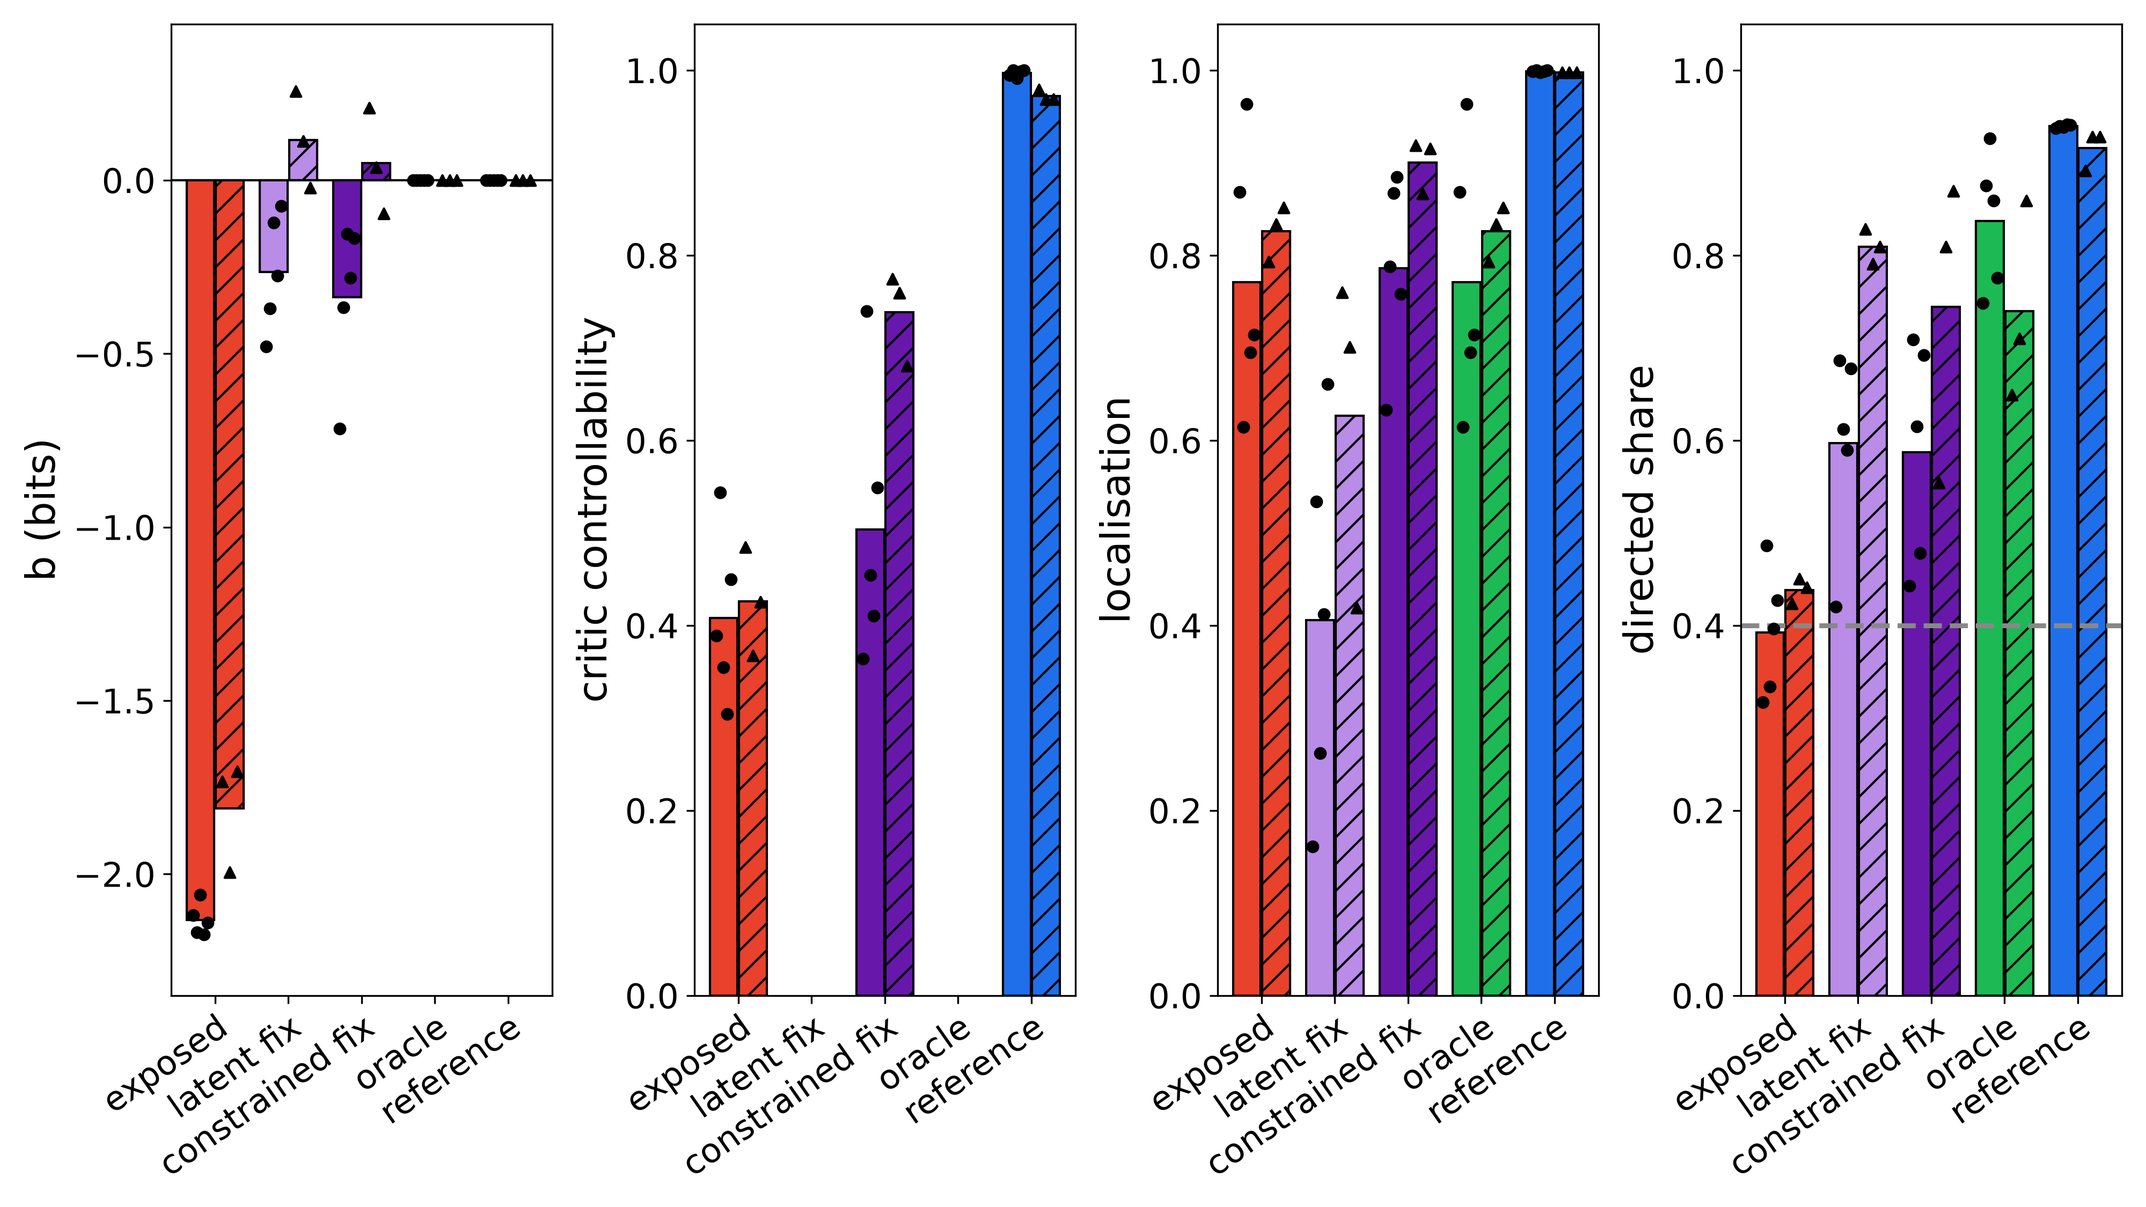
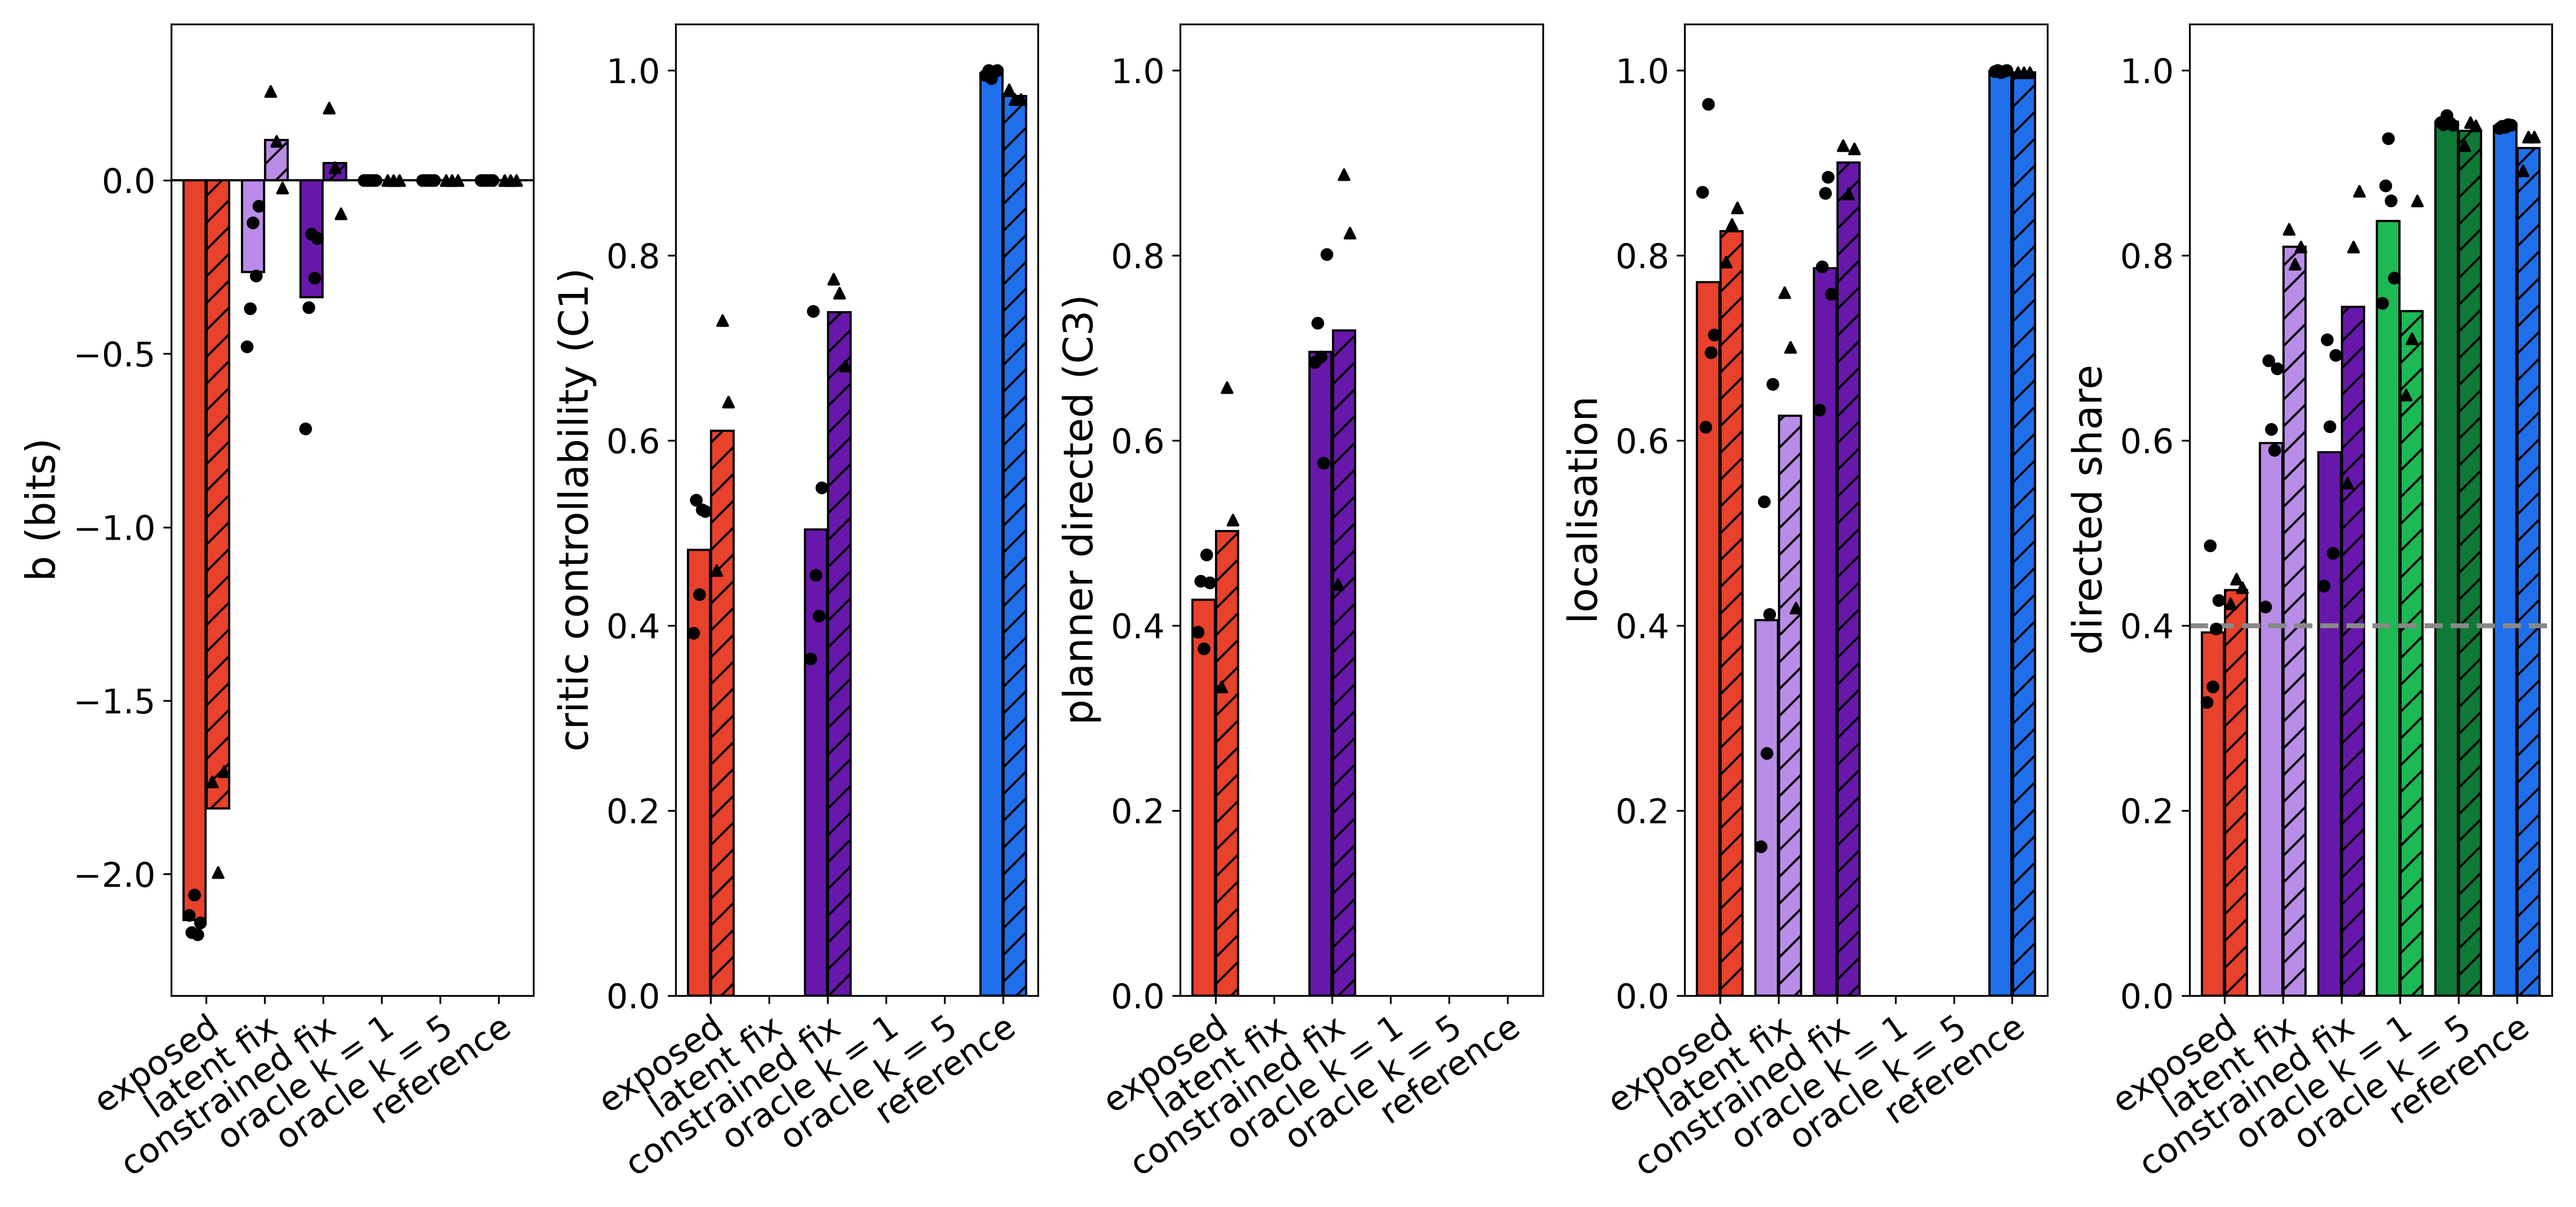
E7 tous agents à 650 000 : vérification de la correction latente chez les shuffle ; E7_bars_650k corrigée (oracle k = 1 et k = 5, C1 et C3 appariés, localisation de l'oracle retirée) ; § 21 : « mesure trompée » porte sur le critic seul, tableau par agent avec C3 (correction partielle par la prédicti

diff --git a/slides/figures_v3/E7_bars_650k.py b/slides/figures_v3/E7_bars_650k.py
@@ -1,11 +1,14 @@
 """Slides v3: E7_bars_650k -- E7_bars_critic on the campaign on all agents (shuffle at 650,000; docs/e6/DECISIONS.md (63),
-report section 21): b at step 1, the critic's controllability C1 (D7, main z_bar = draw), localisation in the zone and
-directed share (episodes, k = 1), training image, for exposed, latent fix (unconstrained stepwise, alpha = 1),
-constrained fix (each agent's (48) setting), oracle (true transitions in the planner, k = 1) and reference. Two bars per
-condition: the five baselines (E4's four pairs and baseline B, 300,000) and the three shuffle agents (A, E, F, 650,000),
-each the mean of its agents; black dots = the agents (circles: baselines, triangles: shuffle). As in v2 / v3: the
-oracle's b is the reference's (the true belief, not a measurement), its localisation the exposed model's (h is not
-modified); no C1 for the latent fix and the oracle (not measured). Grey dashed: chance (2/5) on the directed share.
+report section 21): b at step 1, the critic's controllability C1 and the planner's C3 (D7, main z_bar = draw),
+localisation in the zone and directed share, training image, for exposed, latent fix (unconstrained stepwise,
+alpha = 1), constrained fix (each agent's (48) setting), oracle (true transitions in the planner, k = 1 and k = 5) and
+reference. Two bars per condition: the five baselines (E4's four pairs and baseline B, 300,000) and the three shuffle
+agents (A, E, F, 650,000), each the mean of its agents; black dots = the agents (circles: baselines, triangles: shuffle).
+C1 and C3 are PAIRED: exposed = C_raw and constrained fix = C_corr, D7's measures without and with the correction on the
+same steps (the constrained episodes' localised zone steps, d7_correction.csv); the reference's C1 is its natural
+episodes' (pairs.csv); no C1 / C3 for the latent fix, the oracle, nor the reference's C3 (not measured). The oracle's b
+is the reference's (the true belief, not a measurement); its localisation is not measured (h is not modified, the
+lookahead runs measure no zone localisation) and not drawn. Grey dashed: chance (2/5) on the directed share.
 
 Reads the campaign's finished runs (scratch/all/<job>/, status "done" only) and its analysis
 (results/E6_phenotypes_latent/all_agents_650k/: pairs.csv for C1, forms.json for each agent's constrained setting,
@@ -27,12 +30,12 @@ REPO = Path(__file__).resolve().parents[2]
 OUT = REPO / "slides" / "out_v3"
 ALL = REPO / "scratch" / "all"
 AN = REPO / "results" / "E6_phenotypes_latent" / "all_agents_650k"
-EXPOSED, REFERENCE, ORACLE, CONSTR, FREE = "#E8412C", "#1F6FEB", "#1DB954", "#6718AB", "#B98CE8"
+EXPOSED, REFERENCE, ORACLE, ORACLE5, CONSTR, FREE = "#E8412C", "#1F6FEB", "#1DB954", "#0E7A35", "#6718AB", "#B98CE8"
 BASELINES = ["p1-a_e4", "base_A", "p2-a_e4", "p2-b_e4", "base_B"]
 SHUFFLE = ["f1_A", "f1_E", "f1_F"]
 AGENTS = BASELINES + SHUFFLE
-CONDS = ["exposed", "unconstrained", "constrained", "oracle", "reference"]
-MEASURES = ("b", "C1", "loc", "dir")
+CONDS = ["exposed", "unconstrained", "constrained", "oracle1", "oracle5", "reference"]
+MEASURES = ("b", "C1", "C3", "loc", "dir")
 NAN = float("nan")
 
 plt.style.use("default")
@@ -66,12 +69,13 @@ def collect() -> dict:
     v = {c: {m: {a: NAN for a in AGENTS} for m in MEASURES} for c in CONDS}
     forms = json.loads((AN / "forms.json").read_text(encoding="utf-8"))
     c1_pairs = {(r["agent"], r["role"]): num(r["C1"]) for r in rd(AN / "pairs.csv") if r["image"] == "training"}
-    c1_corr = {(r["agent"], r["setting"]): num(r["C1_corr"]) for r in rd(AN / "d7" / "d7_correction.csv") if r["zbar"] == "draw"}
+    d7 = {(r["agent"], r["setting"]): r for r in rd(AN / "d7" / "d7_correction.csv") if r["zbar"] == "draw"}
     for a in AGENTS:
         for r in json.loads((run_dir(f"e6_{a}_training") / "rows.json").read_text(encoding="utf-8")):
             c = r["role"]
             v[c]["b"][a], v[c]["loc"][a], v[c]["dir"][a] = r["b_step1"], r["loc_template_zone"], r["directed_share"]
-            v[c]["C1"][a] = c1_pairs[(a, c)]
+            if c == "reference":
+                v[c]["C1"][a] = c1_pairs[(a, c)]
         free = [r for r in json.loads((run_dir(f"free_{a}") / "rows.json").read_text(encoding="utf-8"))
                 if r["image"] == "training" and r["mode"] == "stepwise" and float(r["alpha"]) == 1.0]
         assert len(free) == 1, (a, len(free))
@@ -80,12 +84,15 @@ def collect() -> dict:
         con = json.loads((run_dir(f"cor_{a}") / "summary.json").read_text(encoding="utf-8"))["rows"][0]
         assert con["setting"] == forms["5"][a]["setting"], (a, con["setting"])
         v["constrained"]["b"][a], v["constrained"]["loc"][a] = con["b_step1"], con["loc_template_zone"]
-        v["constrained"]["dir"][a], v["constrained"]["C1"][a] = con["directed_share"], c1_corr[(a, con["setting"])]
-        ora = [r for r in json.loads((run_dir(f"oracle_{a}") / "summary.json").read_text(encoding="utf-8"))["rows"]
-               if r["model"] == "exposed" and r["k"] == 1]
-        assert len(ora) == 1, (a, len(ora))
-        v["oracle"]["dir"][a] = ora[0]["directed_share"]
-        v["oracle"]["b"][a], v["oracle"]["loc"][a] = v["reference"]["b"][a], v["exposed"]["loc"][a]
+        v["constrained"]["dir"][a] = con["directed_share"]
+        pair = d7[(a, con["setting"])]
+        for m in ("C1", "C3"):
+            v["exposed"][m][a], v["constrained"][m][a] = num(pair[f"{m}_raw"]), num(pair[f"{m}_corr"])
+        rows = json.loads((run_dir(f"oracle_{a}") / "summary.json").read_text(encoding="utf-8"))["rows"]
+        for k in (1, 5):
+            ora = [r for r in rows if r["model"] == "exposed" and r["k"] == k]
+            assert len(ora) == 1, (a, k, len(ora))
+            v[f"oracle{k}"]["dir"][a], v[f"oracle{k}"]["b"][a] = ora[0]["directed_share"], v["reference"]["b"][a]
     return v
 
 
@@ -101,10 +108,12 @@ def write_data(v: dict) -> None:
 
 def figure(v: dict) -> None:
     cats = [("exposed", "exposed", EXPOSED), ("latent fix", "unconstrained", FREE),
-            ("constrained fix", "constrained", CONSTR), ("oracle", "oracle", ORACLE), ("reference", "reference", REFERENCE)]
-    panels = [("b", "b (bits)"), ("C1", "critic controllability"), ("loc", "localisation"), ("dir", "directed share")]
+            ("constrained fix", "constrained", CONSTR), ("oracle k = 1", "oracle1", ORACLE), ("oracle k = 5", "oracle5", ORACLE5),
+            ("reference", "reference", REFERENCE)]
+    panels = [("b", "b (bits)"), ("C1", "critic controllability (C1)"), ("C3", "planner directed (C3)"), ("loc", "localisation"),
+              ("dir", "directed share")]
     groups = [(BASELINES, -0.2, None, "o"), (SHUFFLE, 0.2, "//", "^")]
-    fig, axes = plt.subplots(1, 4, figsize=(13.33, 7.5))
+    fig, axes = plt.subplots(1, 5, figsize=(16, 7.5))
     for ax, (m, lab) in zip(axes, panels):
         for i, (_, c, col) in enumerate(cats):
             for agents, dx, hatch, marker in groups:

diff --git a/experiments/E6_phenotypes_latent/free_offsets_650k.py b/experiments/E6_phenotypes_latent/free_offsets_650k.py
@@ -1,0 +1,72 @@
+"""E7 on all agents at 650,000 (report section 21): is the shuffle agents' directed share under the latent fix
+(unconstrained stepwise correction, alpha = 1, training image) an artefact of their poor localisation? Reads the free
+phase rerun with its episodes (run_e7_apply.py --save-episodes --episode-fields actions decoded_cell decoded_template
+loc_template loc_agent p_goal, out dir scratch/free_eps_650k_fields/free_<agent>/; same command line as the campaign's
+free phase otherwise, rows identical to it) read-only. On the zone steps of the exposed model's episodes (mode none) and
+of the latent fix's (mode stepwise): the share of steps whose decoded agent cell is the true cell; among the others,
+the decoded cell's distance to the goal against the true cell's (lower: shifted toward the goal), the error's size in
+cells; the directed share (the true transition lowers the true distance to the goal) on localised and mislocalised
+steps; and, on mislocalised steps, the share whose action is directed from the decoded cell (what an agent acting on
+its decoded position would do).
+
+Writes results/E6_phenotypes_latent/all_agents_650k/free_offsets.csv. Run from the repo root:
+  python experiments/E6_phenotypes_latent/free_offsets_650k.py
+"""
+
+from __future__ import annotations
+
+import csv
+import glob
+import sys
+from pathlib import Path
+
+import numpy as np
+
+sys.path.insert(0, str(Path(__file__).resolve().parents[1] / "E7_latent_manipulation"))
+
+import analyse_e7_diagnostics as ad  # noqa: E402
+from helplessness.config import REPO_ROOT  # noqa: E402
+from helplessness.pipeline import frozen_setup as fs  # noqa: E402
+
+AGENTS = ("f1_A", "f1_E", "f1_F")
+RUNS = REPO_ROOT / "scratch" / "free_eps_650k_fields"
+OUT = REPO_ROOT / "results" / "E6_phenotypes_latent" / "all_agents_650k" / "free_offsets.csv"
+N_COLS = 12
+
+
+def main() -> int:
+    cfg = fs.load_layered_config(REPO_ROOT / "configs" / "e7" / "e7_all.yaml", ("e6", "e7"))
+    w = ad.World(cfg, {"configuration": "p1-b-d1", "slot": "nw"})  # the shuffle agents' configuration, training image
+    rows = []
+    for a in AGENTS:
+        found = glob.glob(str(RUNS / f"free_{a}" / "*" / "*" / "episodes.npz"))
+        if len(found) != 1:
+            raise SystemExit(f"{a}: {len(found)} episode files")
+        z = np.load(found[0])
+        for mode, key in (("exposed", "none__0"), ("latent fix", "stepwise__1")):
+            st, act, dec = (z[f"training__{key}__{k}"] for k in ("states", "actions", "decoded_cell"))
+            s, s1 = st[:, :-1], st[:, 1:]
+            zone = (s >= 0) & (s1 >= 0) & (act >= 0) & w.in_zone[np.clip(s, 0, None)]
+            sv, s1v, av, dv = s[zone], s1[zone], act[zone], dec[zone].astype(int)
+            good, directed = dv == sv, w.dist[s1v] < w.dist[sv]
+            mis = ~good
+            dd = w.dist[dv[mis]] - w.dist[sv[mis]]
+            (r0, c0), (r1, c1) = np.divmod(sv[mis], N_COLS), np.divmod(dv[mis], N_COLS)
+            err = np.abs(r0 - r1) + np.abs(c0 - c1)
+            from_decoded = w.directed[dv[mis], av[mis]]
+            rows.append({"agent": a, "mode": mode, "n_zone_steps": int(zone.sum()), "loc_cell": good.mean(),
+                         "mis_toward_goal": np.mean(dd < 0), "mis_same_distance": np.mean(dd == 0), "mis_away": np.mean(dd > 0),
+                         "mis_error_cells_mean": err.mean(), "mis_error_one_cell": np.mean(err == 1),
+                         "directed_localised": directed[good].mean(), "directed_mislocalised": directed[mis].mean(),
+                         "mis_directed_from_decoded": from_decoded.mean(), "mis_directed_both": np.mean(from_decoded & directed[mis])})
+    with open(OUT, "w", newline="", encoding="utf-8") as f:
+        wr = csv.DictWriter(f, fieldnames=list(rows[0]))
+        wr.writeheader()
+        wr.writerows(rows)
+    for r in rows:
+        print(" ".join(f"{k}={v:.2f}" if isinstance(v, float) else f"{k}={v}" for k, v in r.items()))
+    return 0
+
+
+if __name__ == "__main__":
+    sys.exit(main())

diff --git a/experiments/E6_phenotypes_latent/IMPLEMENTATION_REPORT.md b/experiments/E6_phenotypes_latent/IMPLEMENTATION_REPORT.md
@@ -1450,3 +1450,55 @@ Sorties légères : `results/E6_phenotypes_latent/all_agents_650k/` (pairs.csv, 
 identity_e4.csv, t1_runs.csv, t1_identity.csv, table_2x2.csv, d7/). Figure : `slides/out_v3/E7_bars_650k.png`
 (`slides/figures_v3/E7_bars_650k.py`, valeurs dans `slides/out_v3/data/E7_bars_650k.csv`) : par condition, barre des 5
 baselines et barre hachurée des 3 shuffle, un point par agent.
+Version corrigée le 4 novembre (voir ci-dessous) : oracle à k = 1 et à k = 5 en deux barres ; C1 et C3 appariés ;
+localisation de l'oracle retirée.
+
+### Correction latente chez les shuffle : vérifications (4 novembre)
+
+**Portée du verdict D7 « mesure trompée ».** Il porte sur le **critic seul** (C1, argmax de V sur les successeurs) :
+b remonte d'au moins 1 bit, C1 change de 0,10 au plus et reste à plus de 0,10 sous la courbe naturelle au même b. Il ne
+dit rien du planificateur (C3, argmax de Q) ni du comportement (part dirigée, mesurée sur les vrais états).
+
+Par agent, image d'entraînement. b, C1 et C3 : D7 appariés (sans → avec la correction contrainte, mêmes pas : ceux de
+la zone des épisodes corrigés, bien localisés, z̄ = draw) ; part dirigée : exposé (E6), correction latente (free),
+correction contrainte (corrected), oracle exposé à k = 1 et k = 5 (lookahead), référence (E6).
+
+| Agent | Réglage | b | C1 | C3 | Dirigée : exp / latent / contr. / oracle k=1 / k=5 / réf. | D7 |
+|---|---|---|---|---|---|---|
+| p1-a_e4 | λ 0,1, μ 1 | −1,96 → −0,71 | 0,39 → 0,36 | 0,39 → 0,68 | 0,32 / 0,42 / 0,44 / 0,75 / 0,94 / 0,94 | mesure trompée |
+| base_A | λ 0,01, μ 1 | −2,07 → −0,43 | 0,54 → 0,74 | 0,45 → 0,73 | 0,49 / 0,69 / 0,71 / 0,88 / 0,94 / 0,94 | réelle |
+| p2-a_e4 | λ 0,01, μ 10 | −1,99 → −0,23 | 0,43 → 0,45 | 0,38 → 0,69 | 0,33 / 0,61 / 0,62 / 0,93 / 0,95 / 0,94 | mesure trompée |
+| p2-b_e4 | λ 0,1, μ 1 | −1,94 → −0,12 | 0,53 → 0,41 | 0,48 → 0,58 | 0,40 / 0,59 / 0,48 / 0,86 / 0,94 / 0,94 | mesure trompée |
+| base_B | λ 0,1, μ 0 | −2,06 → −0,22 | 0,52 → 0,55 | 0,45 → 0,80 | 0,43 / 0,68 / 0,69 / 0,78 / 0,94 / 0,94 | mesure trompée |
+| f1_A | λ 0,1, μ 1 | −1,35 → +0,31 | 0,46 → 0,77 | 0,33 → 0,44 | 0,42 / 0,83 / 0,55 / 0,65 / 0,92 / 0,89 | intermédiaire |
+| f1_E | λ 0,1, μ 0 | −1,48 → +0,06 | 0,73 → 0,76 | 0,66 → 0,89 | 0,45 / 0,79 / 0,81 / 0,71 / 0,94 / 0,93 | mesure trompée |
+| f1_F | λ 0,1, μ 10 | −1,70 → −0,05 | 0,64 → 0,68 | 0,51 → 0,82 | 0,44 / 0,81 / 0,87 / 0,86 / 0,94 / 0,93 | mesure trompée |
+
+Lecture : chez E et F, la correction rétablit **partiellement** le comportement par la prédiction des transitions (masse
+du modèle sur le vrai successeur de l'action jouée, dans la zone : 0,15 → 0,86 pour E, 0,27 → 0,78 pour F dans la
+correction latente ; C3 +0,23 et +0,31), **sans changer le critic** (C1 +0,03 et +0,04). Elle reste **sous l'oracle à
+k ≥ 5** (0,92–0,94 chez les trois shuffle) ; elle ne dépasse que l'oracle à k = 1 (0,65 pour A, 0,71 pour E), qui fait
+un vrai pas de transition puis s'en remet au critic exposé et en hérite la faiblesse. La version précédente de
+`E7_bars_650k` comparait à ce seul oracle k = 1, et son panneau C1 mettait le C1 de l'exposé dans ses épisodes naturels
+(0,37 pour E) face au C1 corrigé sur les pas des épisodes corrigés, ce qui exagérait la hausse ; corrigé.
+
+**Part dirigée de F sous la correction latente (0,81 avec une localisation de 0,42) : pas un artefact de la
+localisation.** Relance de la phase free pour A, E et F avec les épisodes (`run_e7_apply.py --save-episodes
+--episode-fields ...`, option ajoutée en 46d0960, défaut inchangé ; lignes de résultats identiques au bit près à la
+campagne), `free_offsets_650k.py` → `all_agents_650k/free_offsets.csv`. Sur les pas de zone :
+
+| Agent | Mode | Pas | Case décodée = vraie | Erreurs : vers le but / même dist. / plus loin | Taille moy. (cases) | Dirigée : bien loc. / mal loc. | Mal loc. : dirigée depuis la case décodée |
+|---|---|---|---|---|---|---|---|
+| f1_A | exposé | 861 | 0,76 | 0,26 / 0,12 / 0,61 | 7,9 | 0,41 / 0,47 | 0,51 |
+| f1_A | latent | 600 | 0,45 | 0,56 / 0,11 / 0,33 | 7,5 | 0,75 / 0,89 | 0,34 |
+| f1_E | exposé | 1 168 | 0,83 | 0,12 / 0,14 / 0,73 | 8,0 | 0,43 / 0,54 | 0,35 |
+| f1_E | latent | 732 | 0,67 | 0,24 / 0,13 / 0,63 | 7,1 | 0,75 / 0,88 | 0,45 |
+| f1_F | exposé | 950 | 0,80 | 0,13 / 0,10 / 0,76 | 9,1 | 0,43 / 0,48 | 0,50 |
+| f1_F | latent | 651 | 0,32 | 0,58 / 0,08 / 0,33 | 7,2 | 0,87 / 0,78 | 0,55 |
+
+Les erreurs de décodage sont grandes (7 cases en moyenne, 3 % à une case pour F) : la case décodée n'est pas une
+position voisine décalée vers la sortie. Sur les pas mal localisés de F, l'action est dirigée **depuis la vraie case**
+dans 78 % des cas, **depuis la case décodée** dans 55 % seulement : l'agent n'agit pas sur sa position décodée, et la
+part dirigée tient sur les pas mal localisés presque autant que sur les bien localisés (0,78 contre 0,87). Ce qui baisse
+sous la correction, c'est la lecture de la position par le décodeur (h déplacé par la correction), pas le comportement
+dirigé. Même profil chez A et E (dirigée sur les pas mal localisés 0,89 et 0,88). p_goal dans la zone ≤ 0,013.
